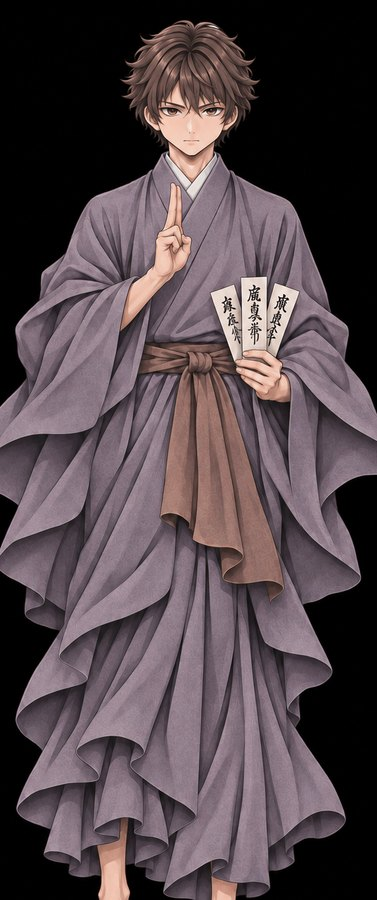
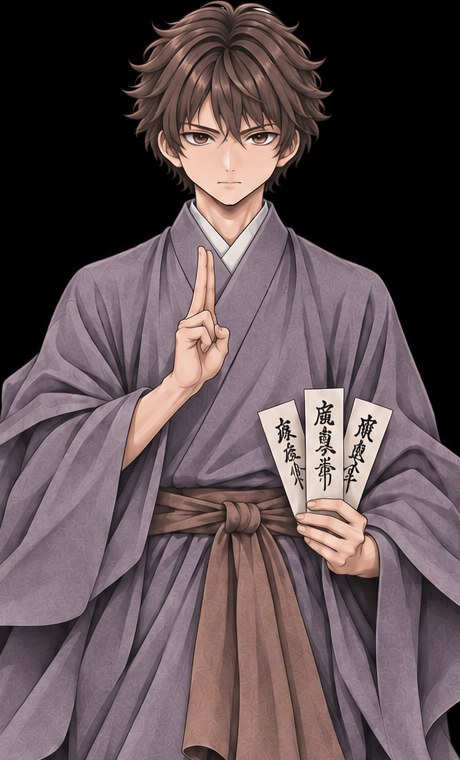
灯真のイラストをバストアップに変更
Claude-Session: https://claude.ai/code/session_01GznJ74Y62rxPGqjWbqGWhy

diff --git a/index.html b/index.html
@@ -386,7 +386,7 @@
     <div class="head reveal"><span class="en">CHARACTERS</span><h2>人物</h2></div>
     <div class="chars">
       <article class="card reveal">
-        <div class="portrait"><img src="chara/toma.jpg" alt="御影灯真" loading="lazy" style="object-position:50% 8%"></div>
+        <div class="portrait"><img src="chara/toma.jpg" alt="御影灯真" loading="lazy" style="object-position:50% 10%"></div>
         <div class="body">
           <span class="ruby">みかげ とうま</span><h3>御影灯真</h3>
           <p>帝都の北外れにある御影人形工房の若き人形職人。彼の作る自律人形は、街で「あれは、ほんとうに、生きておる」と囁かれている。安倍晴明の血を引く御影家の陰陽師でもあり、一族の誰も成し得なかった「十の宝具すべてを扱う」才を持つ。それでも本人にとっては、力よりも人形作りのほうが楽しい。自分の作った人形を、わが子のように大切にしている。</p>
